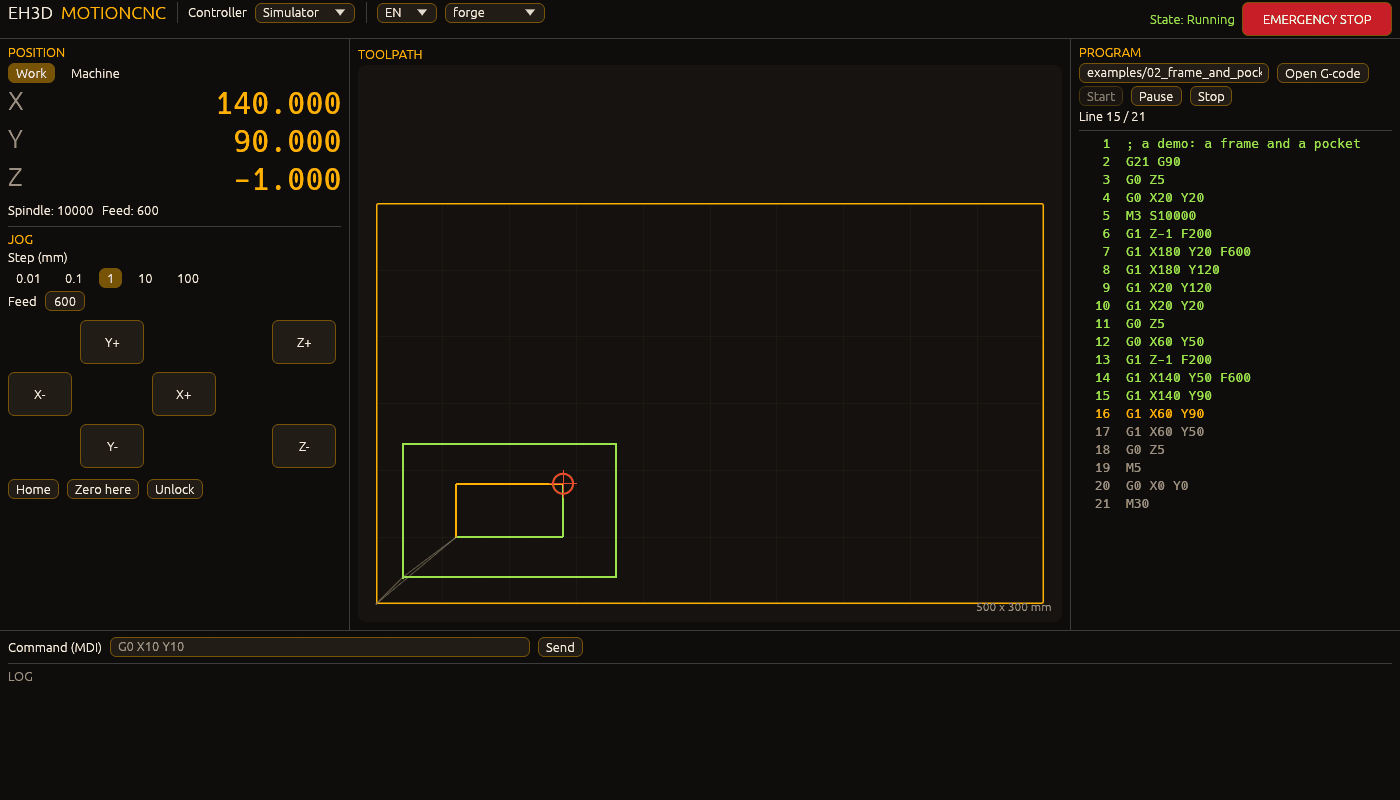
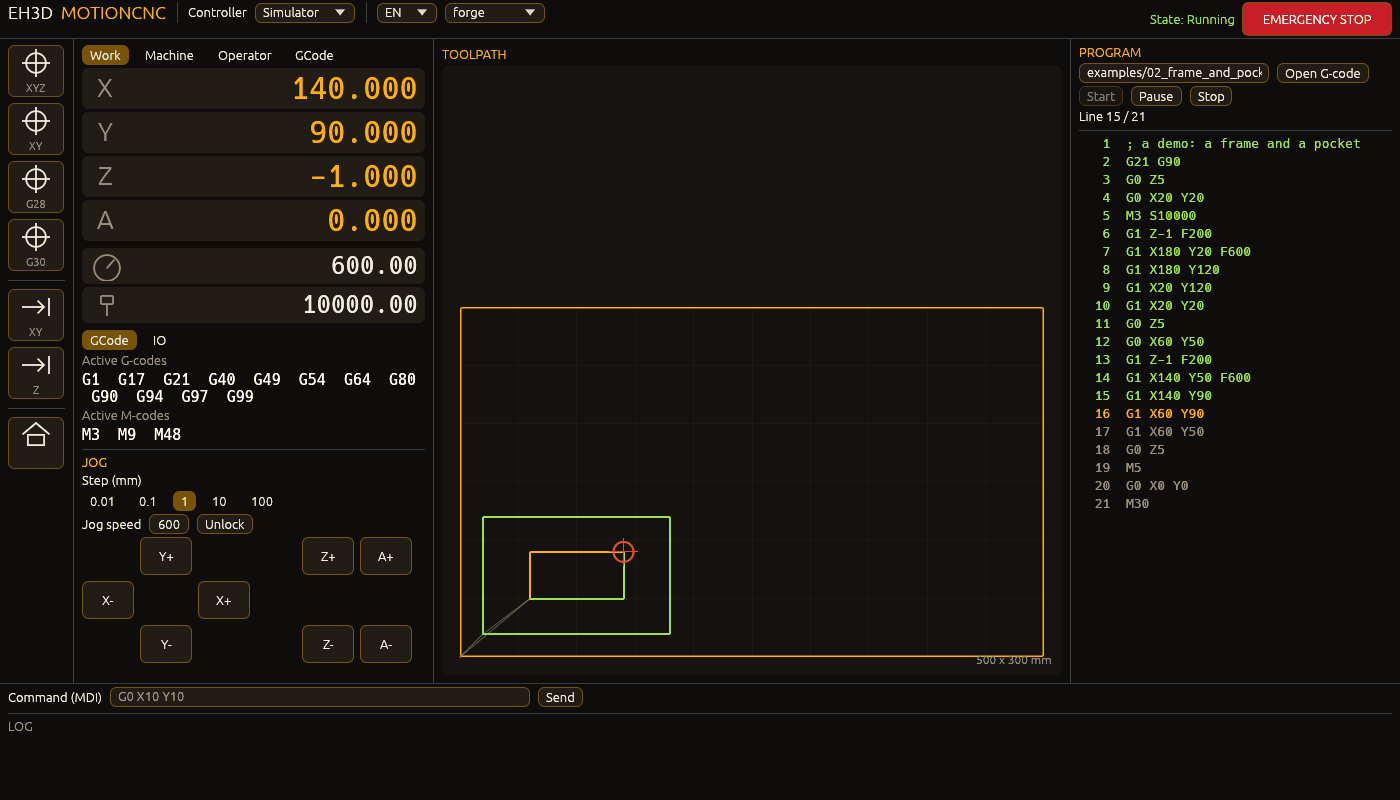
Update the pictures with the new left panel and keep the unlock beside the jog speed

diff --git a/src/gui.rs b/src/gui.rs
@@ -381,7 +381,7 @@ impl App {
                 self.session.go_zero_z();
             }
             ui.separator();
-            if self.icon_button(ui, Icon::Home, self.t(Text::McHome), self.t(Text::McHome)) {
+            if self.icon_button(ui, Icon::Home, "", self.t(Text::McHome)) {
                 self.session.home();
             }
         });
@@ -572,6 +572,9 @@ impl App {
                     .range(1.0..=20000.0)
                     .speed(10.0),
             );
+            if ui.button(self.t(Text::McUnlock)).clicked() {
+                self.session.unlock();
+            }
         });
         let size = Vec2::new(52.0, 38.0);
         let mut pad = |ui: &mut egui::Ui, label: &str, axis: usize, dir: f64| {
@@ -602,10 +605,6 @@ impl App {
             pad(ui, "A-", 3, -1.0);
             ui.end_row();
         });
-        ui.add_space(6.0);
-        if ui.button(self.t(Text::McUnlock)).clicked() {
-            self.session.unlock();
-        }
     }
 
     fn right(&mut self, ui: &mut egui::Ui) {
